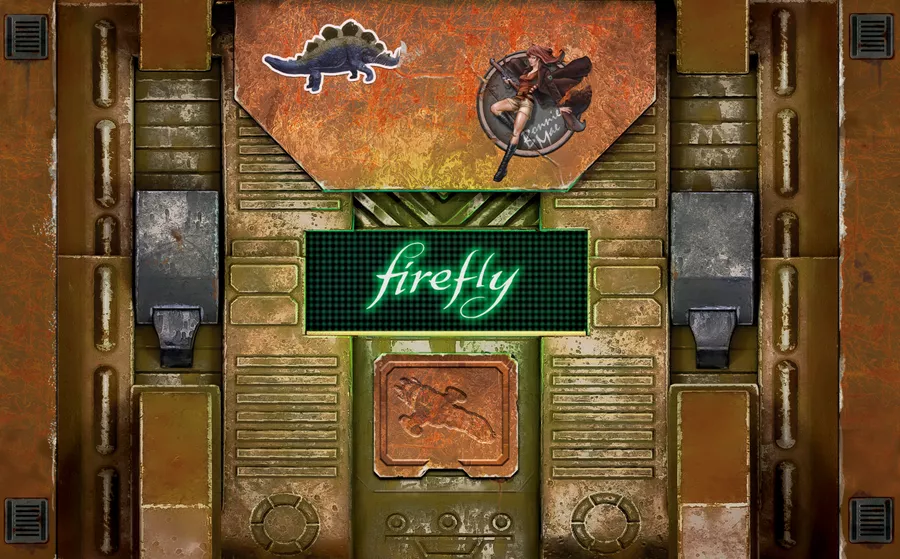
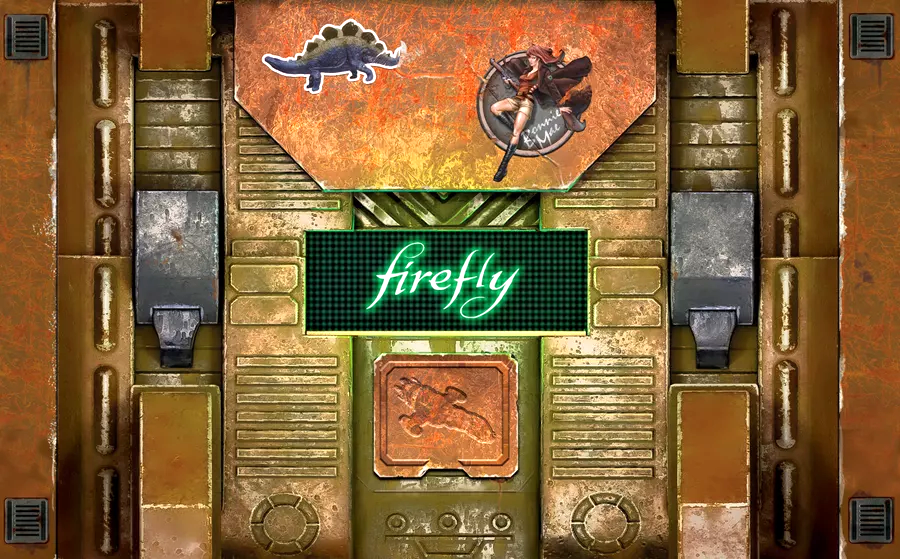
Remove darkening of background header

diff --git a/App.tsx b/App.tsx
@@ -110,13 +110,11 @@ const App = (): React.ReactElement => {
             backgroundImage: `url('${headerImageUrl}')`,
           }}
         ></div>
-        
-        <div className="absolute inset-0 z-10 bg-gradient-to-t from-black/90 via-black/60 to-black/30 opacity-80 dark:opacity-100 dark:from-zinc-950/90 dark:via-zinc-950/60 dark:to-zinc-950/20 pointer-events-none"></div>
 
         <div className="container mx-auto px-2 sm:px-4 pt-24 pb-4 relative z-20 flex flex-col justify-end items-center">
             {/* Accessible heading, as the visual "Firefly: The Game" is in the background image */}
             <h1 className="sr-only">Firefly: The Game</h1>
-            <p className="text-yellow-100/90 dark:text-gray-300 font-medium tracking-[0.3em] uppercase text-sm md:text-base drop-shadow-[0_3px_5px_rgba(0,0,0,1)]">
+            <p className="text-yellow-100/90 dark:text-gray-300 font-medium tracking-[0.3em] uppercase text-sm md:text-base [text-shadow:0_2px_6px_rgba(0,0,0,0.9)]">
                 Automated Setup Guide
             </p>
         </div>
